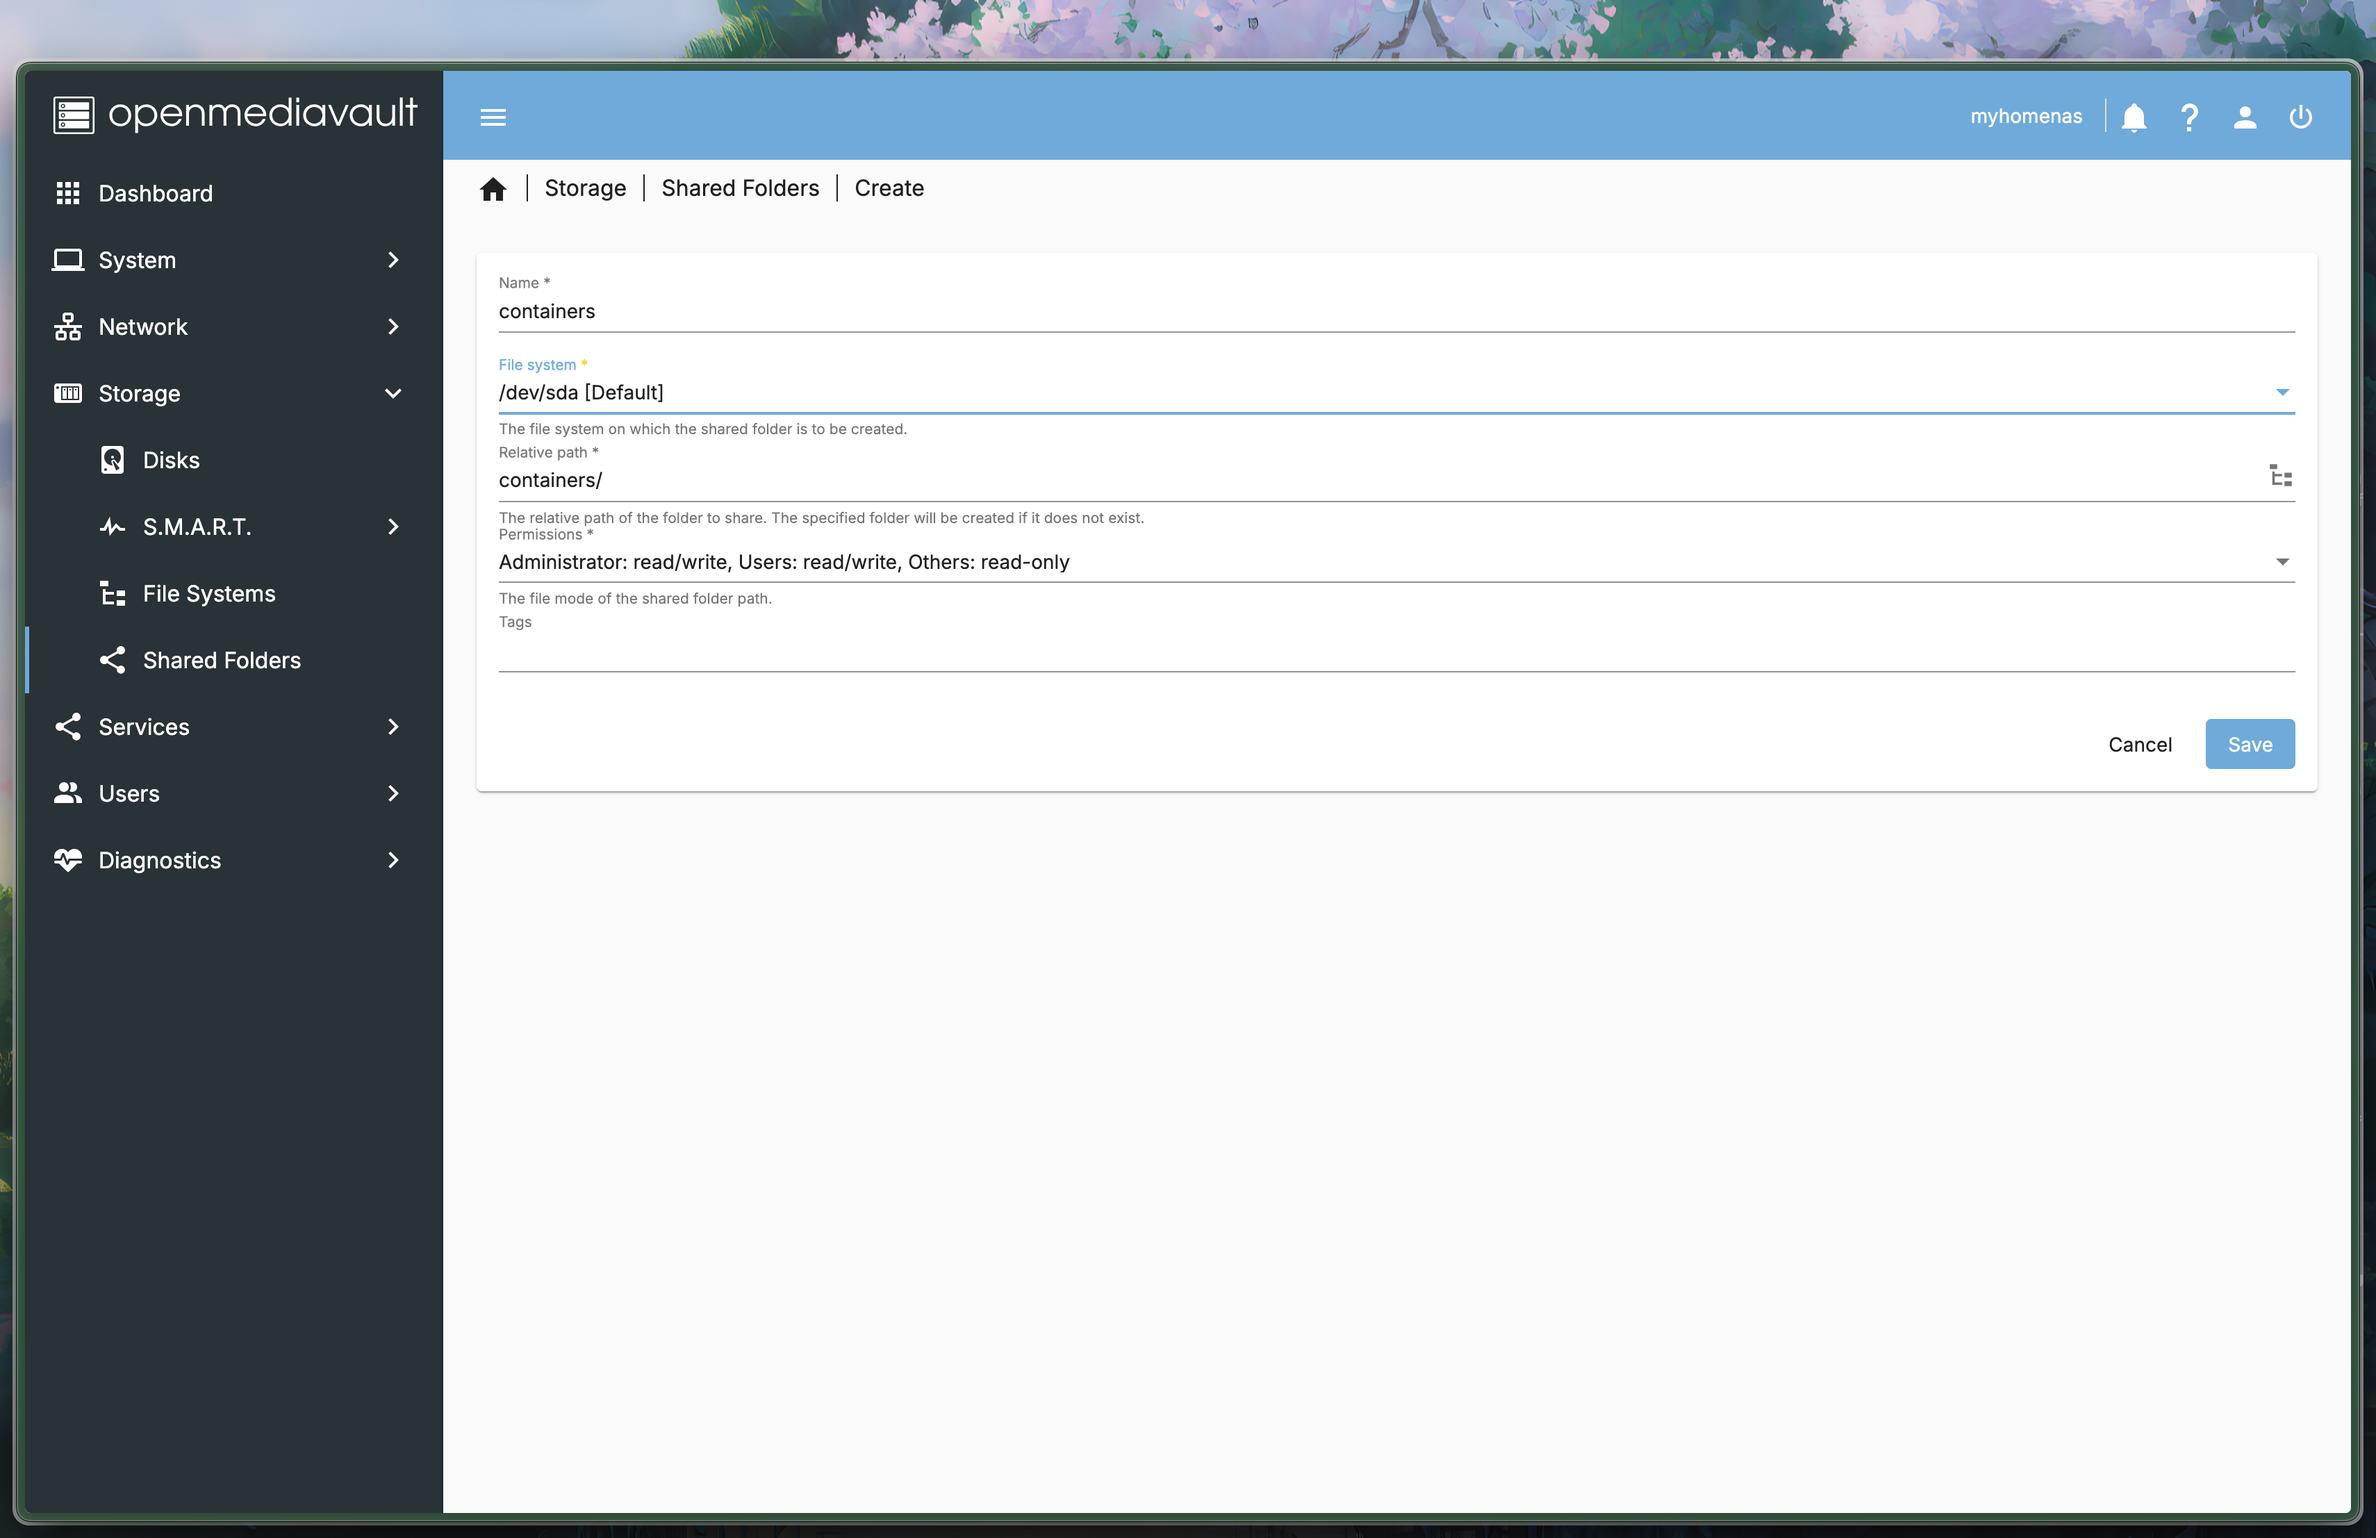
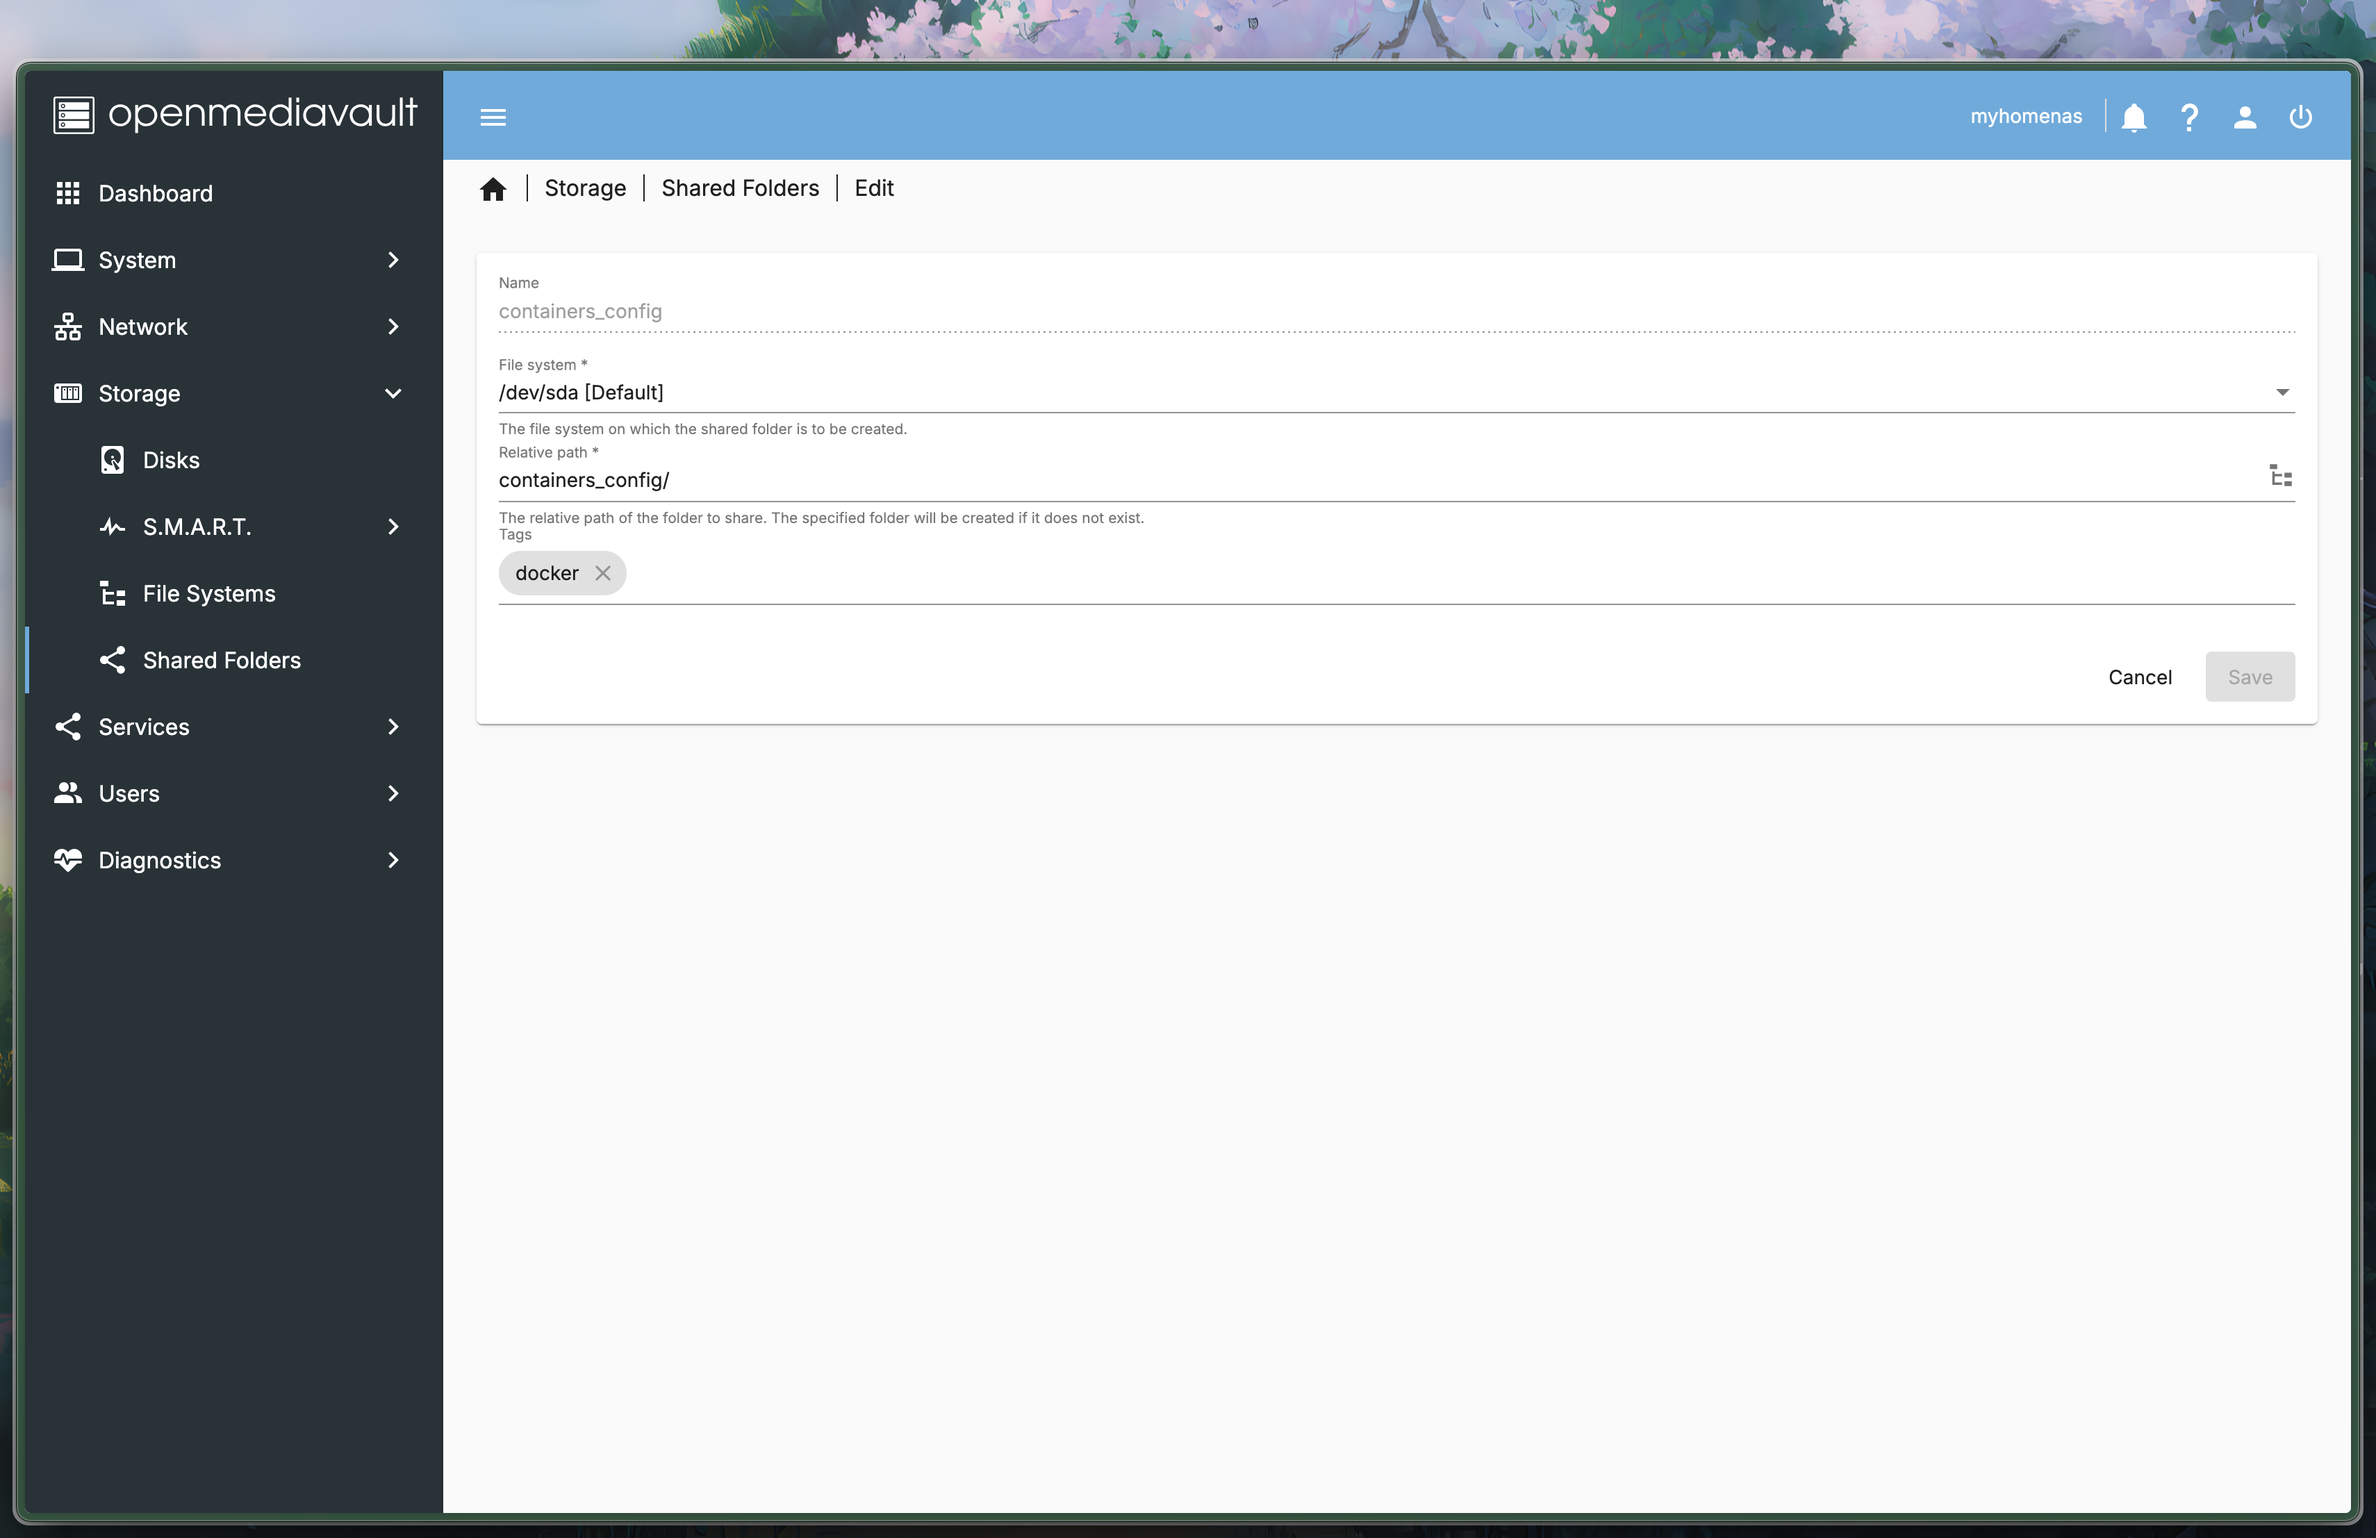
🌟 feat: (storage) add two more shared folders for docker setup

Changed region(s): [[0.186, 0.3428, 0.4339, 0.4051], [0.8988, 0.4051, 0.9918, 0.4986], [0.217, 0.187, 0.2789, 0.2182]]

diff --git a/docs/parts/omv-storage.md b/docs/parts/omv-storage.md
@@ -50,17 +50,21 @@
 
 ### Second scenario: 3 HDD
 
-> coming soon.
+> Coming soon...
 
 ## III - Shared folders
 
 > This section will tackle your first shared folder creation.
 
-- Go to `Storage` > `Shared Folders` and click on `Add`. Fill the fields as follows:
+- Go to `Storage` > `Shared Folders` and click on `Add` and create a new shared folder named `containers_config`. When selecting the file system, choose the one you created earlier, not the boot drive.
 
 ![Shared folder creation](../assets/img/omv/shared-folder.png)
 
 - Hit Save and Apply pending configuration changes.
+
+- Then create 2 more shared folders: `containers_data` and `containers_backups`.
+
+![Shared folder creation](../assets/img/omv/shared-folder-list.png)
 
 ## Next step
 
@@ -69,4 +73,4 @@ You may now proceed to the [OMV docker & Cloudflare tunnel](./omv-docker.md) set
 ---
 
 Last update: Jan. 2025
-Created: Oct. 2024
+Created: Jan. 2025
